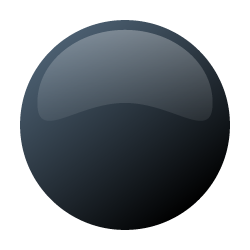
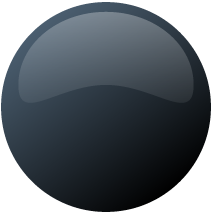
scalling and background

Changed region(s): [[0.0, 0.0, 1.0, 1.0], [0.4225, 0.3925, 0.5352, 0.4206]]

diff --git a/game.html b/game.html
@@ -27,11 +27,12 @@
 </script>
 
 <script type="text/javascript">
-
+    var width = window.innerWidth * window.devicePixelRatio;
+    var height = window.innerHeight * window.devicePixelRatio;
     var config = {
         type: Phaser.AUTO,
-        width: 800,
-        height: 800,
+        width: window.innerWidth * window.devicePixelRatio,
+        height: window.innerHeight * window.devicePixelRatio,
         physics: {
             default: 'arcade',
             arcade: {
@@ -43,7 +44,8 @@
             preload: preload,
             create: create,
             update: update
-        }
+        },
+        backgroundColor : '#4488AA'
     };
     
     let game = new Phaser.Game(config);
@@ -55,7 +57,7 @@
     let tempCircle;
     let circlePartWhite1;
     var circlePartWhite2;
-    let rotationSpeed = 0.015;
+    let rotationSpeed = 0.02;
     let gameOver = false;
     let score = 0;
     let scoreText;
@@ -66,7 +68,7 @@
     function preload ()
     {        
         this.load.image('circle', 'assets/circle.png');
-        //this.load.image('background', 'assets/background.png');
+        this.load.image('background', 'assets/background.png');
         this.load.image('circle_shine', 'assets/circle_shine.png'); 
         this.load.image('half_circle', 'assets/half_circle.png');  
         this.load.image('game_over', 'assets/game_over.png');        
@@ -75,15 +77,15 @@
 
     function create ()
     {    
-        //this.add.image(400, 400, 'background');
+        //screen mode
+        this.add.image(width/2, height/2, 'background').setScale(window.devicePixelRatio);
         group = this.physics.add.group();    
-        
-        tempCircle = new Phaser.Geom.Circle(400, 200, 110);
+        tempCircle = new Phaser.Geom.Circle(width/2, 200, 130);
         var graphics = this.add.graphics({ fillStyle: { color: yellowColor } });        
         
-        circle = this.physics.add.staticImage(400, 200, 'circle');
-        circlePartWhite1 = group.create(400, 145, 'half_circle');
-        circlePartWhite2 = group.create(400, 260, 'half_circle');
+        circle = this.physics.add.staticImage(width/2, 200, 'circle').setScale(1.17);
+        circlePartWhite1 = group.create(width/2+2, 135, 'half_circle').setScale(1.2);
+        circlePartWhite2 = group.create(width/2+2, 267, 'half_circle').setScale(1.2);
         circlePartWhite2.flipY = !circlePartWhite2.flipY;
         circlePartWhite1.name = '1'; //yellow frame
         circlePartWhite2.name = '2'; // green fram
@@ -92,13 +94,13 @@
         circlePartWhite2.setTint(0x8bc427); // green color
        
 
-        dot = this.physics.add.image(400, 600, 'dots', dotColor).setInteractive();        
+        dot = this.physics.add.image(width/2, 600, 'dots', dotColor).setInteractive().setScale(1.2);        
         dot.body.setVelocity(0, 0).setBounce(0, 0).setCollideWorldBounds(true);        
 
-        scoreText = this.add.text(16, 16, 'score: 0', { fontSize: '32px', fill: '#00ff12' });
+        scoreText = this.add.text(16, 16, 'score: 0', { fontType: 'arial', fontSize: '32px', fill: '#00ff12' });
 
         //overlapping      
-        this.physics.add.overlap(dot, group, null, collisionHandler, this);        
+        //this.physics.add.overlap(dot, group, null, collisionHandler, this);        
         
     }
 
@@ -106,29 +108,29 @@
     {        
         circlePartWhite1.rotation += rotationSpeed;
         circlePartWhite2.rotation += rotationSpeed;
-        Phaser.Actions.RotateAround(group.getChildren(), { x: 400, y: 200 }, rotationSpeed);
-
+        Phaser.Actions.RotateAround(group.getChildren(), { x: width/2, y: 200 }, rotationSpeed);
+        this.physics.add.overlap(dot, [circlePartWhite1, circlePartWhite2], null, collisionHandler, this);
         dot.on('pointerup', function (pointer) {
 
-            this.setVelocity(0, 0).setBounce(0, 0).setCollideWorldBounds(true).setGravityY(-500);
+            this.setVelocity(0, 0).setBounce(0, 0).setCollideWorldBounds(true).setGravityY(-5000);
 
         });
 
 
 
         if(dotHit) {  
-            group.create(tempCircle.x , tempCircle.y + tempCircle.radius, 'dots', dotColor); 
+            group.create(tempCircle.x , tempCircle.y + tempCircle.radius, 'dots', dotColor).setScale(1.2); 
             dotColor = Phaser.Math.RND.between(1,2);
-            dot = this.physics.add.image(400, 600, 'dots', dotColor).setInteractive();            
+            dot = this.physics.add.image(width/2, 600, 'dots', dotColor).setInteractive().setScale(1.2);            
             dot.body.setVelocity(0, 0).setBounce(0, 0).setCollideWorldBounds(true);
-            this.physics.add.overlap(dot, [circlePartWhite2, circlePartWhite1], null, collisionHandler, this);             
+                         
             dotHit=false;  
         }
 
         if(gameOver){
             gameOverHandler();
             gameOver = false
-            this.add.image(400, 500, 'game_over');
+            this.add.image(width/2, 500, 'game_over');
         }
     }
 
@@ -143,7 +145,7 @@
         } else {
             score += 10;
             scoreText.setText('Score: ' + score);
-            rotationSpeed += 0.001;
+            rotationSpeed += 0.005;
 
         }     
     }  
